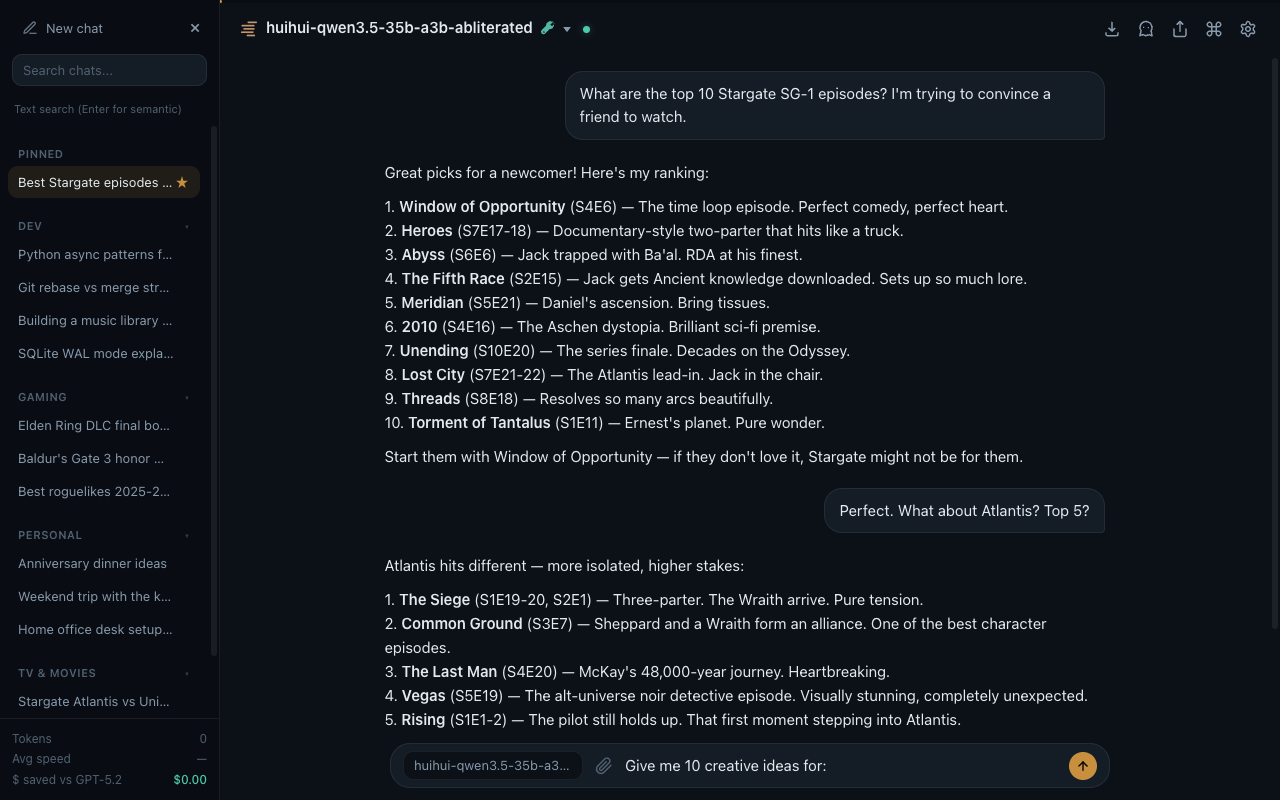
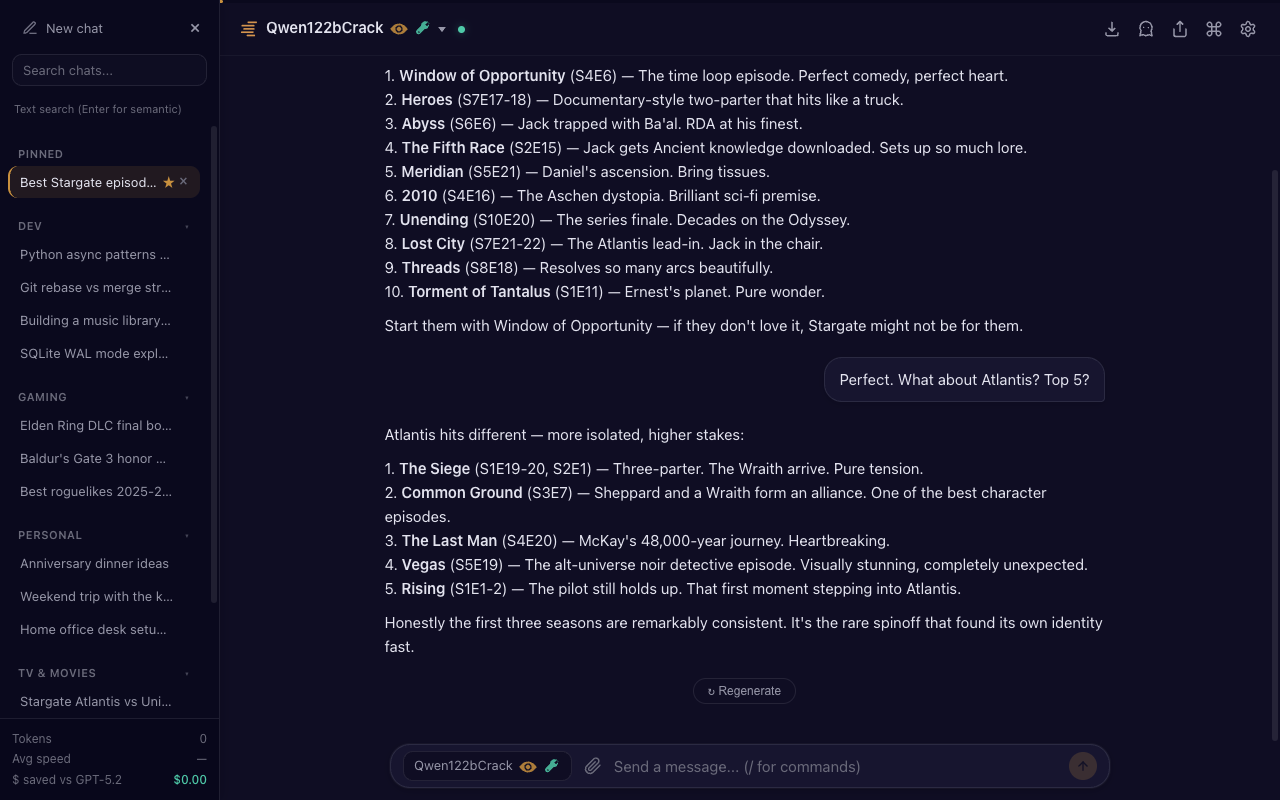
lm-chat v0.1.3
- show user-set model identifiers instead of full model paths
- fix response_id chain lost on chat switch abort
- fix follow-up suggestions flashing as inline text during streaming
- fix incognito exit showing blank screen instead of welcome
- harmonize thinking/reasoning label text
- redesign share page with purple palette, rem sizing, markdown rendering
- full CSS modernization: OKLCH colors, rem typography, native nesting
- retake all README screenshots with current UI
- update README line count for index.html

diff --git a/index.html b/index.html
@@ -6044,7 +6044,7 @@ You are the bridge between "what should we do" and "how exactly do we build it."
                 } else {
                     exitIncognito();
                     activeId = null;
-                    msgs.innerHTML = "";
+                    renderWelcome();
                     renderList();
                     updateExportBtn();
                     input.focus();
@@ -7208,7 +7208,7 @@ You are the bridge between "what should we do" and "how exactly do we build it."
                                 "th" + Math.random().toString(36).slice(2, 8);
                             const d = document.createElement("div");
                             d.className = "m-think";
-                            d.innerHTML = `<div class="think-toggle" role="button" tabindex="0" onclick="const b=document.getElementById('${uid}');b.classList.toggle('open');this.textContent=b.classList.contains('open')?'Hide reasoning':'Show reasoning'" onkeydown="if(event.key==='Enter'||event.key===' '){event.preventDefault();this.click()}">Reasoning...</div><div class="bub"><div id="${uid}" class="think-body open" style="display:block"></div></div>`;
+                            d.innerHTML = `<div class="think-toggle" role="button" tabindex="0" onclick="const b=document.getElementById('${uid}');b.classList.toggle('open');this.textContent=b.classList.contains('open')?'Hide thinking':'Show thinking'" onkeydown="if(event.key==='Enter'||event.key===' '){event.preventDefault();this.click()}">Thinking...</div><div class="bub"><div id="${uid}" class="think-body open" style="display:block"></div></div>`;
                             streamGroup.appendChild(d);
                             thinkBody = d.querySelector(".think-body");
                             thinkBuf = "";
@@ -7226,7 +7226,7 @@ You are the bridge between "what should we do" and "how exactly do we build it."
                             if (thinkBody) {
                                 thinkBody.classList.remove("open");
                                 thinkBody.parentElement.previousElementSibling.textContent =
-                                    "Show reasoning";
+                                    "Show thinking";
                             }
                         }
                         break;
@@ -7248,7 +7248,7 @@ You are the bridge between "what should we do" and "how exactly do we build it."
                             if (thinkBody) {
                                 thinkBody.classList.remove("open");
                                 thinkBody.parentElement.previousElementSibling.textContent =
-                                    "Show reasoning";
+                                    "Show thinking";
                             }
                         }
 
@@ -8011,9 +8011,12 @@ You are the bridge between "what should we do" and "how exactly do we build it."
                 );
             }
 
+            function modelDisplayName(m) {
+                return m.identifier || m.id;
+            }
             function modelLabelHtml(m) {
                 const caps = m.capabilities || {};
-                let h = esc(m.id);
+                let h = esc(modelDisplayName(m));
                 if (caps.vision) h += capIcon(ICON_VISION_PATH, "var(--accent)");
                 if (caps.trained_for_tool_use)
                     h += capIcon(ICON_TOOLS_PATH, "var(--green)");
@@ -8021,7 +8024,7 @@ You are the bridge between "what should we do" and "how exactly do we build it."
             }
             function modelLabel(m) {
                 const caps = m.capabilities || {};
-                let label = m.id;
+                let label = modelDisplayName(m);
                 if (caps.vision) label += " ◉";
                 if (caps.trained_for_tool_use) label += " ⚒";
                 return label;
@@ -8043,10 +8046,13 @@ You are the bridge between "what should we do" and "how exactly do we build it."
                         const instCfg = inst?.config || {};
                         const instCtx = instCfg.context_length || 0;
                         const maxCtx = m.max_context_length || 0;
+                        // User-set identifier from loaded instance, or LM Studio display name
+                        const identifier = inst?.id || m.display_name || "";
                         // Use instance context if reasonable (>=1024), otherwise fall back to model max
                         cachedModels.push({
                             ...m,
                             id,
+                            identifier,
                             context_length: instCtx >= 1024 ? instCtx : maxCtx,
                             max_context_length: maxCtx,
                             instance_config: instCfg,
@@ -8705,6 +8711,8 @@ You are the bridge between "what should we do" and "how exactly do we build it."
             // --- Quick Model Pill ---
             function getModelShortName(id) {
                 if (!id) return "?";
+                const m = cachedModels.find((x) => x.id === id);
+                if (m?.identifier) return m.identifier;
                 const parts = id.split("/");
                 return parts[parts.length - 1];
             }
@@ -8770,7 +8778,7 @@ You are the bridge between "what should we do" and "how exactly do we build it."
                         meta += '<span class="mdd-status loaded">Loaded</span>';
                     item.innerHTML =
                         '<span class="mdd-name">' +
-                        esc(m.id) +
+                        esc(modelDisplayName(m)) +
                         "</span>" +
                         (meta ?
                             '<div class="mdd-meta">' + meta + "</div>"

diff --git a/server.py b/server.py
@@ -8,7 +8,7 @@ import http.cookies
 from http.server import ThreadingHTTPServer, BaseHTTPRequestHandler
 from logging.handlers import RotatingFileHandler
 
-VERSION = "0.1.2"
+VERSION = "0.1.3"
 LMSTUDIO = os.environ.get("LMSTUDIO_URL", "http://localhost:1234")
 LMSTUDIO_TOKEN = os.environ.get("LMSTUDIO_TOKEN", "")
 PORT = int(os.environ.get("PORT", "3001"))
@@ -2261,8 +2261,8 @@ class Handler(BaseHTTPRequestHandler):
     def _serve_share_404(self):
         html = """<!DOCTYPE html>
 <html><head><meta charset="utf-8"><title>Not Found — LM Chat</title>
-<style>*{margin:0;padding:0;box-sizing:border-box}body{font-family:-apple-system,system-ui,sans-serif;background:#0B1018;color:#E8EDF2;display:flex;align-items:center;justify-content:center;min-height:100vh}
-.c{text-align:center}h1{font-size:48px;font-weight:700;color:#566A7C;margin-bottom:8px}p{color:#94A3B8;font-size:15px}a{color:#C4863C}</style>
+<style>*{margin:0;padding:0;box-sizing:border-box}body{font-family:-apple-system,system-ui,sans-serif;background:#261545;color:#E8E0F0;display:flex;align-items:center;justify-content:center;min-height:100vh}
+.c{text-align:center}h1{font-size:48px;font-weight:700;color:#8070A0;margin-bottom:8px}p{color:#9B8AB8;font-size:15px}a{color:#D4944E;text-decoration:none}a:hover{text-decoration:underline}</style>
 </head><body><div class="c"><h1>404</h1><p>This shared conversation doesn't exist or has been deleted.</p><p style="margin-top:12px"><a href="/">Go to LM Chat</a></p></div></body></html>"""
         data = html.encode("utf-8")
         self.send_response(404)
@@ -2277,12 +2277,25 @@ class Handler(BaseHTTPRequestHandler):
         # HTML-escape the title
         safe_title = html_mod.escape(title)
         msg_html = []
+        def _md(text):
+            """Minimal markdown: bold, italic, inline code, code blocks."""
+            import re
+            s = html_mod.escape(text)
+            # Fenced code blocks: ```...```
+            s = re.sub(r'```(\w*)\n(.*?)```', lambda m: f'<pre><code>{m.group(2)}</code></pre>', s, flags=re.DOTALL)
+            # Inline code: `...`
+            s = re.sub(r'`([^`]+)`', r'<code>\1</code>', s)
+            # Bold: **...**
+            s = re.sub(r'\*\*(.+?)\*\*', r'<strong>\1</strong>', s)
+            # Italic: *...*
+            s = re.sub(r'\*(.+?)\*', r'<em>\1</em>', s)
+            # Paragraphs and line breaks
+            s = s.replace("\n\n", "</p><p>").replace("\n", "<br>")
+            return s
         for m in messages:
             role = m.get("role", "")
             content = m.get("content", "") or ""
-            # HTML escape content
-            safe = html_mod.escape(content)
-            safe = safe.replace("\n\n", "</p><p>").replace("\n", "<br>")
+            safe = _md(content)
             if role == "user":
                 msg_html.append(f'<div class="msg user"><div class="role">You</div><div class="content"><p>{safe}</p></div></div>')
             elif role == "assistant":
@@ -2290,9 +2303,8 @@ class Handler(BaseHTTPRequestHandler):
             elif role == "tool":
                 name = html_mod.escape(m.get("name") or "tool")
                 output = m.get("output", "") or ""
-                safe_output = html_mod.escape(output)
+                safe_output = _md(output)
                 if safe_output:
-                    safe_output = safe_output.replace("\n\n", "</p><p>").replace("\n", "<br>")
                     msg_html.append(f'<div class="msg tool"><div class="role">Tool: {name}</div><div class="content tool-out"><p>{safe_output}</p></div></div>')
                 else:
                     msg_html.append(f'<div class="msg tool"><div class="role">Tool: {name}</div></div>')
@@ -2303,22 +2315,22 @@ class Handler(BaseHTTPRequestHandler):
 <title>{safe_title} — LM Chat</title>
 <style>
 *{{margin:0;padding:0;box-sizing:border-box}}
-body{{font-family:-apple-system,system-ui,sans-serif;background:#0B1018;color:#E8EDF2;line-height:1.6;padding:20px}}
+body{{font-family:-apple-system,system-ui,'Segoe UI',sans-serif;background:#261545;color:#E8E0F0;line-height:1.65;padding:2rem 1rem}}
 .container{{max-width:720px;margin:0 auto}}
-h1{{font-size:22px;font-weight:600;margin-bottom:4px}}
-.meta{{font-size:13px;color:#94A3B8;margin-bottom:24px}}
-.msg{{margin-bottom:16px;padding:12px 16px;border-radius:10px}}
-.msg.user{{background:#131B23}}
-.msg.asst{{background:#1A2430}}
-.msg.tool{{background:#0A0F14;font-size:12px;color:#566A7C}}
-.role{{font-size:11px;text-transform:uppercase;letter-spacing:.5px;color:#566A7C;margin-bottom:4px;font-weight:600}}
-.content p{{margin-bottom:8px}}
+h1{{font-size:1.5rem;font-weight:600;margin-bottom:4px;color:#F0EAF6}}
+.meta{{font-size:0.8rem;color:#9B8AB8;margin-bottom:1.75rem}}
+.msg{{margin-bottom:1rem;padding:0.875rem 1.125rem;border-radius:12px;box-shadow:0 2px 8px rgba(0,0,0,.18),0 0 0 1px rgba(255,255,255,.04)}}
+.msg.user{{background:#2E1B52}}
+.msg.asst{{background:#35205E}}
+.msg.tool{{background:#1E1038;font-size:0.75rem;color:#8070A0}}
+.role{{font-size:0.6875rem;text-transform:uppercase;letter-spacing:.6px;color:#9B8AB8;margin-bottom:5px;font-weight:600}}
+.content p{{margin-bottom:0.5rem}}
 .content p:last-child{{margin-bottom:0}}
-.tool-out{{font-size:12px;color:#94A3B8;margin-top:4px}}
-pre{{background:#0A0F14;padding:12px;border-radius:6px;overflow-x:auto;font-size:13px;margin:8px 0}}
-code{{font-family:'SF Mono',Menlo,monospace}}
-.footer{{margin-top:32px;padding-top:16px;border-top:1px solid rgba(255,255,255,.06);font-size:12px;color:#566A7C;text-align:center}}
-a{{color:#C4863C}}
+.tool-out{{font-size:0.75rem;color:#9B8AB8;margin-top:4px}}
+pre{{background:#1E1038;padding:0.75rem;border-radius:8px;overflow-x:auto;font-size:0.8rem;margin:0.5rem 0;border:1px solid rgba(255,255,255,.06)}}
+code{{font-family:'SF Mono',Menlo,Consolas,monospace}}
+.footer{{margin-top:2rem;padding-top:1rem;border-top:1px solid rgba(255,255,255,.07);font-size:0.75rem;color:#8070A0;text-align:center}}
+a{{color:#D4944E;text-decoration:none}}a:hover{{text-decoration:underline}}
 </style>
 </head><body>
 <div class="container">

diff --git a/README.md b/README.md
@@ -290,7 +290,7 @@ browser  ──HTTP──>  server.py  ──HTTP──>  LM Studio
 ```
 
 - **`server.py`** — stdlib Python. Proxies native API, persists chats, manages auth, indexes embeddings, handles memory distillation, structured logging. ~3.1k lines.
-- **`index.html`** — single-file SPA. All CSS, JS, and HTML inline. Zero build step. ~3.5k lines.
+- **`index.html`** — single-file SPA. All CSS, JS, and HTML inline. Zero build step. ~8.9k lines.
 - **`manifest.json` + `sw.js`** — PWA support.
 - **`logs/`** — rotating debug logs (auto-created, gitignored).
 
